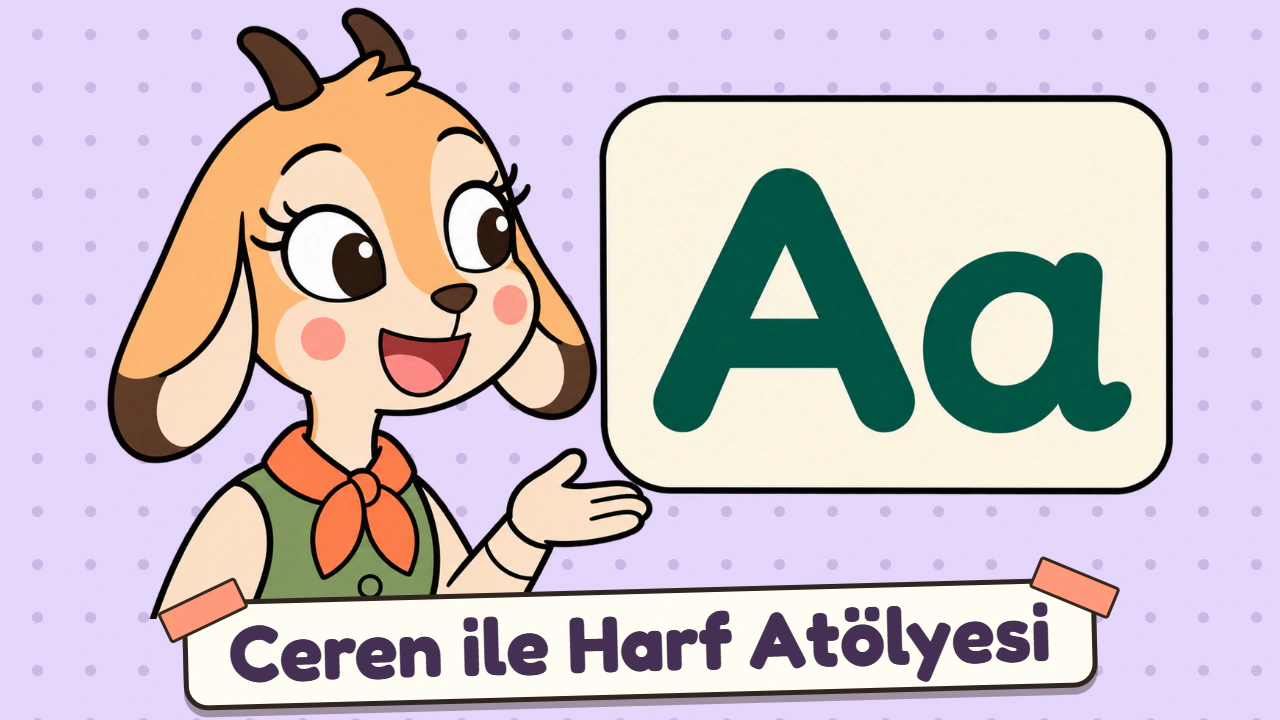
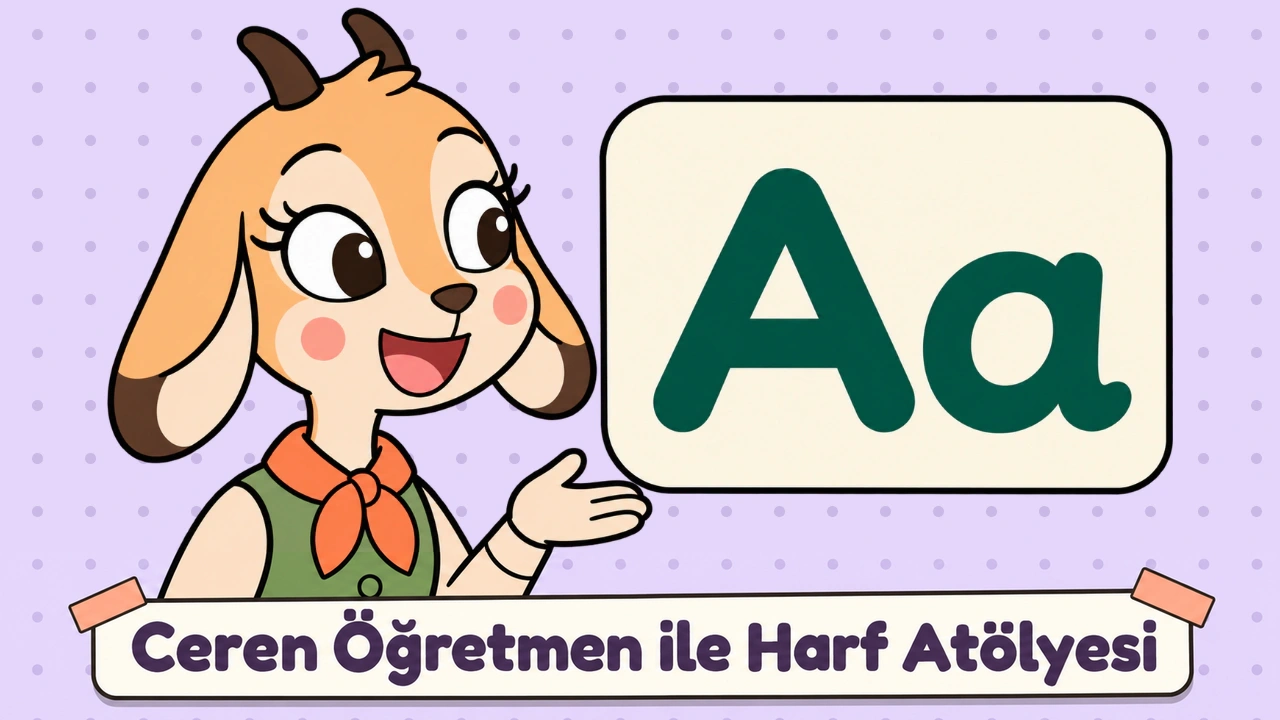
Kilit ekrani her oyunda duzgun, Buyukler icin dugmesi belirgin, kolay ebeveyn sorusu, 14 gun deneme yazisi, menu kilit rozetleri kart icinde, yeni kapaklar

Changed region(s): [[0.0312, 0.7639, 0.9688, 1.0]]

diff --git a/src/abonelik/abonelik.css b/src/abonelik/abonelik.css
@@ -755,23 +755,26 @@
 .mk-kok .kl-tamam {
   min-width: min(100%, 220px);
 }
-/* büyükler için: küçük, sade, yazılı (çocuğu çekmeyen) */
+/* büyükler için: açıkça görünen ikinci düğme (Barış 2026-11-16: "çok saklamışsın"); Tamam'dan sade, ama gizli değil */
 .mk-kok .kl-buyuk {
   display: flex;
   align-items: center;
   justify-content: center;
-  gap: 6px;
-  margin: 14px auto 0;
-  min-height: 44px;
-  padding: 0 10px;
-  font-size: 0.95rem;
-  font-weight: 600;
-  opacity: 0.75;
+  gap: 8px;
+  margin: 12px auto 0;
+  min-width: min(100%, 220px);
+  min-height: 52px;
+  padding: 0 18px;
+  font-size: 1.05rem;
+  font-weight: 800;
+  color: var(--kontur, #3b2a1e);
+  background: #fff;
+  border: 3px solid color-mix(in srgb, var(--kontur, #3b2a1e) 70%, #fff);
+  border-radius: 999px;
+  box-shadow: 0 3px 0 color-mix(in srgb, var(--kontur, #3b2a1e) 40%, #fff);
+  cursor: pointer;
 }
-.mk-kok .kl-buyuk > span:not(.ikon) {
-  text-decoration: underline;
-  text-underline-offset: 3px;
-}
+.mk-kok .kl-buyuk:active { translate: 0 2px; box-shadow: 0 1px 0 color-mix(in srgb, var(--kontur, #3b2a1e) 40%, #fff); }
 .mk-kok .kl-buyuk .ikon {
   font-size: 20px;
   color: var(--mavi);
@@ -801,3 +804,7 @@
 .mk-kok .ab-eski { color: #a8907a; font-size: .82em; font-weight: 700; text-decoration-thickness: 2px; }
 
 .mk-kok .ab-lansman { margin: 6px 0 0; text-align: center; font-weight: 800; color: #c0392b; font-size: .95em; }
+
+/* oyun sayfası .mk-kok değilken kilit anı için geçici katman (src/abonelik/kilit.ts) */
+.mk-kok.mk-kilit-katmani { z-index: 2147483000; background: transparent; pointer-events: none; }
+.mk-kok.mk-kilit-katmani > * { pointer-events: auto; }

diff --git a/tests/e2e/kabuk.spec.ts b/tests/e2e/kabuk.spec.ts
@@ -134,7 +134,7 @@ test('Kabuk: abonelik ekranında mağazaların istediği her şey var', async ({
   await expect(ab.locator('.ab-plan-aylik')).toContainText('/ ay');
   await expect(ab.locator('.ab-plan-yillik')).toContainText('₺899,00');
   await expect(ab.locator('.ab-plan-yillik')).toContainText('/ yıl');
-  await expect(ab.locator('.ab-deneme')).toHaveText('7 gün ücretsiz dene');
+  await expect(ab.locator('.ab-deneme')).toHaveText('14 gün ücretsiz dene');
   await expect(ab.locator('.ab-sonra')).toContainText('Deneme bitince ₺899,00 / yıl');
   // otomatik yenileme metni TR + EN (iOS), geri yükleme, gizlilik, koşullar, iletişim, kapat
   await expect(ab.locator('.ab-yasal').first()).toContainText('otomatik olarak yenilenir');
@@ -178,7 +178,7 @@ test('Kabuk: anahtar yokken kilit yok, abonelik ekranı "Yakında" ve yedek fiya
   await expect(ab.locator('.ab-basla')).toBeDisabled();
   await expect(ab.locator('.ab-plan-aylik .ab-fiyat')).toContainText('199 TL');
   await expect(ab.locator('.ab-plan-yillik .ab-fiyat')).toContainText('899 TL');
-  await expect(ab.locator('.ab-deneme')).toHaveText('7 gün ücretsiz deneme');
+  await expect(ab.locator('.ab-deneme')).toHaveText('14 gün ücretsiz deneme');
   await expect(ab.locator('.ab-durum')).toContainText('bütün oyunlar açık');
   await page.waitForTimeout(500);
   await page.screenshot({ path: 'tests/screens/kabuk-abonelik-yakinda.png' });

diff --git a/uygulama/src/oyunlar.ts b/uygulama/src/oyunlar.ts
@@ -58,9 +58,9 @@ export interface OyunKarti {
 
 export const OYUNLAR: OyunKarti[] = [
   { id: 'matematik', ad: 'Matematik Atölyesi', adres: './matematik/', renk: '#f9bc76', katmanlar: [] },
-  { id: 'alfabe', ad: 'Ceren ile Harf Atölyesi', adres: './alfabe/', renk: '#f7c785', katmanlar: [] },
-  // İlk İngilizcem: bütünüyle premium (src/engine/erisim.ts); kapak Astra'dan gelince assets/uygulama/oyun-kapaklari/ingilizce.webp
-  { id: 'ingilizce', ad: 'İlk İngilizcem', adres: './ingilizce/', renk: '#78cce3', rozet: 'Yeni', katmanlar: [] },
+  { id: 'alfabe', ad: 'Ceren Öğretmen ile Harf Atölyesi', adres: './alfabe/', renk: '#f7c785', katmanlar: [] },
+  // İngilizceye Merhaba: bütünüyle premium (src/engine/erisim.ts)
+  { id: 'ingilizce', ad: 'İngilizceye Merhaba', adres: './ingilizce/', renk: '#78cce3', rozet: 'Yeni', katmanlar: [] },
   { id: 'sef', ad: 'Minik Şef', adres: './sef/', renk: '#6CC9AE', katmanlar: [] },
   { id: 'kino-ile-sen-sec', ad: 'Kino’yla Sen Seç', adres: './kino-ile-sen-sec/', renk: '#FFCE56', zemin: 'kino-ile-sen-sec/kapak', katmanlar: [] },
   { id: 'hazirlik', ad: 'Okula Hazırlanalım', adres: './hazirlik/', renk: '#70BDAF', zemin: 'hazirlik/kapak', katmanlar: [] },

diff --git a/src/abonelik/kilit.ts b/src/abonelik/kilit.ts
@@ -3,6 +3,7 @@
  * src/abonelik/kilit-ani.ts), oradan yalnız "Büyükler için" düğmesiyle ebeveyn kapısı → abonelik ekranı.
  * Kilitler yalnız uygulamada (anahtar varken) etkin; web sitesinde hiçbir şey kilitlenmez (src/engine/erisim.ts).
  */
+import '../styles/ana.css';
 import './abonelik.css';
 import { erisimDinle, kilitli } from '../engine/erisim';
 import { h, svg } from '../ui/dom';
@@ -39,6 +40,12 @@ export function kilitleriKur(kartlar: [HTMLElement, string, HTMLElement?][]): ()
  */
 export function erisimVarMi(id: string, kok: HTMLElement): boolean {
   if (!kilitli(id)) return true;
-  void kilitliIcerik(kok);
+  // kilit anı, ebeveyn kapısı ve abonelik ekranının stilleri .mk-kok altında: oyun sayfası .mk-kok değilse
+  // (Matematik, Harf, Kitap, Pati …) geçici, şeffaf bir .mk-kok katmanı açılır, iş bitince kalkar
+  const ev = kok.closest<HTMLElement>('.mk-kok');
+  if (ev) { void kilitliIcerik(ev); return false; }
+  const katman = h('div.mk-kok.mk-kilit-katmani');
+  document.body.append(katman);
+  void kilitliIcerik(katman).finally(() => katman.remove());
   return false;
 }

diff --git a/uygulama/src/yatay-menu.css b/uygulama/src/yatay-menu.css
@@ -35,7 +35,9 @@
 .ym-ekran .ym-icerik img, .ym-ekran .ym-yedek { width: 100%; aspect-ratio: 1.6; object-fit: cover; border: 2px solid var(--ym-kontur); border-radius: 13px; background: white; }
 .ym-ekran .ym-yedek { display: grid; place-items: center; font-size: 55px; }
 .ym-ekran .ym-baslik { padding: 7px 0 2px; color: white; font-size: clamp(12px, 1.8vw, 21px); text-shadow: 1px 1px 0 #493747; }
-.ym-ekran .ym-kilit { position: absolute; left: 10px; top: 10px; pointer-events: none; }
+.ym-ekran .ym-kilit { position: absolute; right: 7%; top: 9%; z-index: 3; pointer-events: none; }
+/* rozet kartın içinde, sağ üstte (dışarı taşıp yan karta binmesin) */
+.ym-ekran .ym-kilit .mk-kilit { position: static; }
 .ym-ekran .ym-icerik .ug-kart-resim { position: relative; flex: none; width: 100%; aspect-ratio: 1.6; border: 2px solid var(--ym-kontur); border-radius: 13px; --r: var(--renk); }
 .ym-ekran .ym-icerik .ug-kart-resim::after { display: none; }
 .ym-ekran .ym-icerik .ug-kart-resim img { aspect-ratio: auto; border: 0; border-radius: 0; background: transparent; object-fit: contain; }

diff --git a/src/ui/ebeveyn-kapisi.ts b/src/ui/ebeveyn-kapisi.ts
@@ -21,13 +21,14 @@ export function sayiYazi(n: number): string {
 
 /** Soru: iki basamaklı (11-39) + tek basamaklı (3-9); cevap 14-48 */
 export function kapiSorusu(rnd: () => number = Math.random): { a: number; b: number; yazi: string } {
-  const a = 11 + Math.floor(rnd() * 29);
-  const b = 3 + Math.floor(rnd() * 7);
+  // Barış 2026-11-16: kolay olsun (büyük için bir bakışta; okuma bilmeyen çocuk için yine yazılı): 10-19 + 1-5
+  const a = 10 + Math.floor(rnd() * 10);
+  const b = 1 + Math.floor(rnd() * 5);
   const yazi = `${sayiYazi(a)} artı ${sayiYazi(b)} kaç eder?`;
   return { a, b, yazi: yazi.charAt(0).toLocaleUpperCase('tr') + yazi.slice(1) };
 }
 
-/** Cevap her zaman iki basamaklı (14-48): en çok iki rakam yazılır */
+/** Cevap her zaman iki basamaklı (11-24): en çok iki rakam yazılır */
 export const KAPI_BASAMAK = 2;
 /** Üst üste bu kadar yanlıştan sonra kapı bir süre dinlenir (rastgele tuşa basan çocuk deneye deneye geçemesin) */
 export const KAPI_HAK = 3;

diff --git a/tests/unit/abonelik.test.ts b/tests/unit/abonelik.test.ts
@@ -65,14 +65,14 @@ describe('ebeveyn kapısı', () => {
   it('iki basamaklı + tek basamaklı, soru yazıyla (rakam yok)', () => {
     for (let i = 0; i < 200; i++) {
       const s = kapiSorusu();
-      expect(s.a).toBeGreaterThanOrEqual(11);
-      expect(s.a).toBeLessThanOrEqual(39);
-      expect(s.b).toBeGreaterThanOrEqual(3);
-      expect(s.b).toBeLessThanOrEqual(9);
+      expect(s.a).toBeGreaterThanOrEqual(10);
+      expect(s.a).toBeLessThanOrEqual(19);
+      expect(s.b).toBeGreaterThanOrEqual(1);
+      expect(s.b).toBeLessThanOrEqual(5);
       expect(s.yazi).not.toMatch(/\d/);
       expect(s.yazi).toMatch(/ artı .* kaç eder\?$/);
     }
-    expect(kapiSorusu(() => 0).yazi).toBe('On bir artı üç kaç eder?');
+    expect(kapiSorusu(() => 0).yazi).toBe('On artı bir kaç eder?');
   });
   it('cevap hep iki basamaklı (iki kutucuk yeter)', () => {
     for (let i = 0; i < 200; i++) {

diff --git a/tests/e2e/uygulama-abonelik.spec.ts b/tests/e2e/uygulama-abonelik.spec.ts
@@ -83,7 +83,7 @@ test('Uygulama: kilitli oyun → ebeveyn kapısı → abonelik ekranı → (saht
   await expect(ab.locator('.ab-plan-yillik .ab-fiyat')).toContainText('₺899,00');
   await expect(ab.locator('.ab-plan-yillik .ab-avantaj')).toHaveText('En avantajlı');
   await expect(ab.locator('.ab-plan-yillik')).toHaveAttribute('aria-checked', 'true');
-  await expect(ab.locator('.ab-deneme')).toHaveText('7 gün ücretsiz dene');
+  await expect(ab.locator('.ab-deneme')).toHaveText('14 gün ücretsiz dene');
   await expect(ab.locator('.ab-basla')).toHaveText('Ücretsiz denemeyi başlat');
   await expect(ab.locator('.ab-sonra')).toContainText('Deneme bitince ₺899,00 / yıl');
   await expect(ab.getByRole('button', { name: 'Satın alımları geri yükle' })).toBeEnabled();

diff --git a/src/kabuk/yon.ts b/src/kabuk/yon.ts
@@ -77,7 +77,7 @@ export function telefonMu(en: number, boy: number): boolean {
 }
 
 /** Telefon oyunları ve yatay oynatıcılar. */
-export const YATAY_SAYFALAR: readonly string[] = ['matematik', 'alfabe', 'kartlar', 'canlan', 'kino-ile-sen-sec', 'hazirlik', 'pati', 'pati-yeni', 'sef', 'izle', 'otobus', 'pasta', 'pazar', 'macera', 'dedektif', 'film', 'giysin', 'kino-otobus', 'restoran'];
+export const YATAY_SAYFALAR: readonly string[] = ['matematik', 'alfabe', 'ingilizce', 'kartlar', 'canlan', 'kino-ile-sen-sec', 'hazirlik', 'pati', 'pati-yeni', 'sef', 'izle', 'otobus', 'pasta', 'pazar', 'macera', 'dedektif', 'film', 'giysin', 'kino-otobus', 'restoran'];
 
 /** Adres yolundan telefon yönünü seçer. */
 export function sayfaYonu(yol: string): Yon {

diff --git a/alfabe/index.html b/alfabe/index.html
@@ -1,5 +1,5 @@
 <!doctype html>
 <html lang="tr">
-<head><meta charset="utf-8"><meta name="viewport" content="width=device-width,initial-scale=1,viewport-fit=cover"><meta name="theme-color" content="#fbefda"><title>Ceren ile Harf Atölyesi · Minkino</title><link rel="icon" href="../favicon.svg"></head>
+<head><meta charset="utf-8"><meta name="viewport" content="width=device-width,initial-scale=1,viewport-fit=cover"><meta name="theme-color" content="#fbefda"><title>Ceren Öğretmen ile Harf Atölyesi · Minkino</title><link rel="icon" href="../favicon.svg"></head>
 <body><main id="atolye"></main><script type="module" src="./src/main.ts"></script></body>
 </html>

diff --git a/src/abonelik/sahte.ts b/src/abonelik/sahte.ts
@@ -27,7 +27,7 @@ export function sahteSaglayici(): Saglayici {
       if (q.get('magaza') === 'yok') throw new Error('mağaza yok (sahte)');
       // mağazanın döndüreceği biçimde (yerel fiyat metni); değerler Barış'ın fiyatları
       // &deneme=yok: bu kullanıcının deneme hakkı yok (iOS'ta denemeyi daha önce kullanmış Apple Kimliği)
-      const denemeGun = q.get('deneme') === 'yok' ? null : 7;
+      const denemeGun = q.get('deneme') === 'yok' ? null : 14;
       return [
         { id: 'aylik', fiyat: '₺239,99', ayBasi: null, denemeGun },
         { id: 'yillik', fiyat: '₺1.799,99', ayBasi: '₺150,00', denemeGun },

diff --git a/src/abonelik/ekran.ts b/src/abonelik/ekran.ts
@@ -58,7 +58,7 @@ export const YEDEK_FIYAT: Record<PlanId, string> = { aylik: '239,99 TL', yillik:
 export const NORMAL_FIYAT: Record<PlanId, string> = { aylik: '799,99 TL', yillik: '5.999,99 TL' };
 /** Lansman indirimi (Barış 2026-11-16: ikisinde %70): yıllık 5.999,99 → 1.799,99, aylık 799,99 → 239,99 */
 export const LANSMAN_INDIRIM: Record<PlanId, string> = { aylik: '%70 indirim', yillik: '%70 indirim' };
-const YEDEK_DENEME_GUN = 7;
+const YEDEK_DENEME_GUN = 14;
 
 /**
  * Kahraman görseli: assets/uygulama/abonelik-kahraman-kesik.webp (Mino ve Kino el sallar, yıldız ve konfeti; zemini
